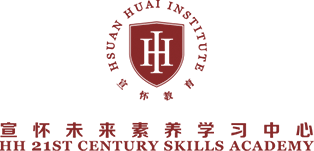
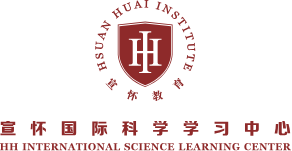
fixed

diff --git a/study.html b/study.html
@@ -58,10 +58,10 @@
             <div class="title-box">
                 <div class="title-inner">
                     <span class="line vm"></span>
-                    <span class="s1">未来教育联盟</span>
+                    <span class="s1">宣怀国际科学学习中心</span>
                     <span class="line vm"></span>
                 </div>
-                <p class="desc">从产业出发促进教育发展，从教育出发推动产业前进</p>
+                <p class="desc">科学成就未来</p>
             </div>
 
             <div class="cont-body gary cb1 cb0">
@@ -70,10 +70,8 @@
                         <img class="w10 vm" src="./images/study-pic1.png" alt="">
                     </div>
                     <dl class="info">
-                        <dt>宣怀未来素养学习中心</dt>
-                        <dd>宣怀未来素养学习中心着眼未来社会对人才的需求，整合中科院、麻省理工学院、纽约科学院、中国日报等国内国际的优质教育资源及先进的教案，
-                            形成以科学为核心、多学科融合为主的教学体系及核心竞争力。培养孩子具备更丰富多元的优势进入理想的学校，让孩子成为具有核心素养的世界公
-                        民。</dd>
+                        <dt>宣怀国际科学学习中心</dt>
+                        <dd>宣怀国际科学学习中心着眼未来社会对人才的需求，整合中科院、麻省理工学院、纽约科学院、中国日报等国内国际的优质教育资源及先进的教案，形成以科学为核心、多学科融合为主的教学体系及核心竞争力。培养孩子具备更丰富多元的优势进入理想的学校，让孩子成为具有核心素养的世界公民。</dd>
                     </dl>
                 </div>
             </div>
@@ -104,7 +102,8 @@
                             <dd><img class="vm sarrow" src="./images/small-arrow.png" alt="">麻省理工大学导师全英文授课</dd>
                             <dd><img class="vm sarrow" src="./images/small-arrow.png" alt="">麻省理工大学官方证书</dd>
                         </dl>
-                        <a href="" class="go-activity block">了解详细</a>
+                        <a href="http://www.hsuanhuai.cn/activity/mit_sc.html" class="go-activity block mobile">了解详细</a>
+                        <a href="http://www.hsuanhuai.cn/activity/pcmitsc.html" class="go-activity block pc">了解详细</a>
                     </div>
                 </div>
             </div>
@@ -117,14 +116,15 @@
                     <div class="info">
                         <dl>
                             <dt>英文演说口语课</dt>
-                            <dd>中国日报社“21世纪杯”全国英语演讲比赛推荐</dd>
+                            <dd class="redtxt">中国日报社“21世纪杯”全国英语演讲比赛推荐</dd>
                         </dl>
                         <dl>
                             <dd><img class="vm sarrow" src="./images/small-arrow.png" alt="">课程衔接“21世纪杯”全国英语演讲比赛</dd>
                             <dd><img class="vm sarrow" src="./images/small-arrow.png" alt="">英语母语教学培养纯正英文口语</dd>
                             <dd><img class="vm sarrow" src="./images/small-arrow.png" alt="">课程内容节选自美国国家地理学习《Our World》原版教材</dd>
                         </dl>
-                        <a href="" class="go-activity block">了解详细</a>
+                        <a href="http://www.hsuanhuai.cn/activity/speaker_sum.html" class="go-activity block mobile">了解详细</a>
+                        <a href="http://www.hsuanhuai.cn/activity/pcspeaker.html" class="go-activity block pc">了解详细</a>
                     </div>
                 </div>
             </div>
@@ -137,14 +137,15 @@
                     <div class="info">
                         <dl>
                             <dt>科学英文课</dt>
-                            <dd>上海科普英语竞赛衔接优选课程</dd>
+                            <dd class="redtxt">上海科普英语竞赛衔接优选课程</dd>
                         </dl>
                         <dl>
                             <dd><img class="vm sarrow" src="./images/small-arrow.png" alt="">课程衔接上海科普英语竞赛</dd>
                             <dd><img class="vm sarrow" src="./images/small-arrow.png" alt="">纽约科学院权威课程体系</dd>
                             <dd><img class="vm sarrow" src="./images/small-arrow.png" alt="">课程内容节选自《Blue Planet》原版教材</dd>
                         </dl>
-                        <a href="" class="go-activity block">了解详细</a>
+                        <a href="http://www.hsuanhuai.cn/activity/speech_sum.html" class="go-activity block mobile">了解详细</a>
+                        <a href="http://www.hsuanhuai.cn/activity/pcspeech.html" class="go-activity block pc">了解详细</a>
                     </div>
                 </div>
             </div>
@@ -157,14 +158,15 @@
                     <div class="info">
                         <dl>
                             <dt>Scratch编程课</dt>
-                            <dd>麻省理工大学终身幼儿园实验室推荐</dd>
+                            <dd class="redtxt">麻省理工大学终身幼儿园实验室推荐</dd>
                         </dl>
                         <dl>
                             <dd><img class="vm sarrow" src="./images/small-arrow.png" alt="">课程源自麻省理工大学终身幼儿园实验室</dd>
                             <dd><img class="vm sarrow" src="./images/small-arrow.png" alt="">对标美国CSTA标准</dd>
                             <dd><img class="vm sarrow" src="./images/small-arrow.png" alt="">中国科学院自动化所专家推荐课程</dd>
                         </dl>
-                        <a href="" class="go-activity block">了解详细</a>
+                        <a href="http://www.hsuanhuai.cn/activity/scratch_sum.html" class="go-activity block mobile">了解详细</a>
+                        <a href="http://www.hsuanhuai.cn/activity/pcscratch.html" class="go-activity block pc">了解详细</a>
                     </div>
                 </div>
             </div>
@@ -174,7 +176,7 @@
             <div class="title-box">
                 <div class="title-inner">
                     <span class="line vm"></span>
-                    <span class="s1">全国校区</span>
+                    <span class="s1">全球校区分布图</span>
                     <span class="line vm"></span>
                 </div>
             </div>

diff --git a/css/css.css b/css/css.css
@@ -1230,6 +1230,7 @@ margin-left: -500px;}
 .study-box .address-box .p2 {font-size: 12px;color:#333;}
 .pc {display: block;}
 .mobile {display: none;}
+.redtxt {color:#9c1d22 !important;}
 
 
 
